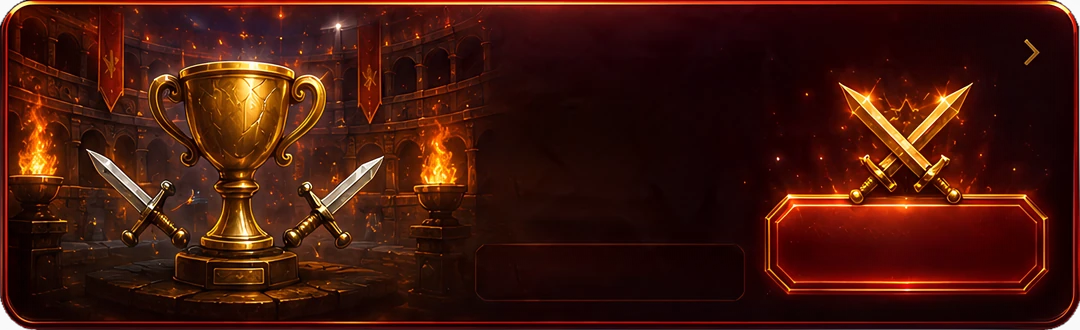
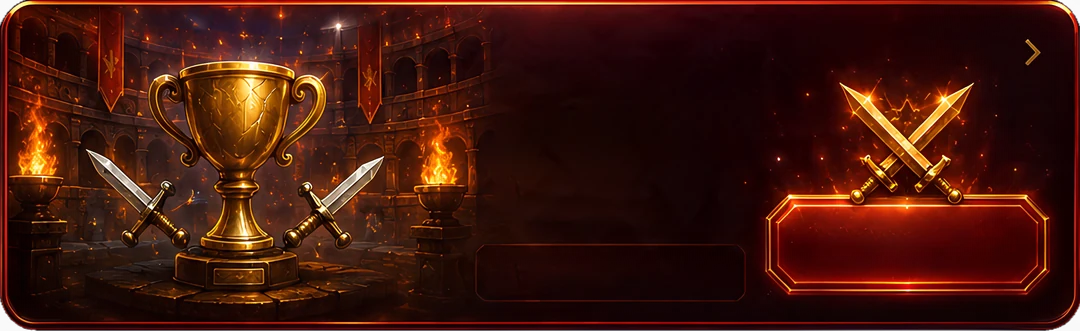
v2.105.1: nieuwe dagronde-secties, vinkje uit de art
De drie sectieplaten vervangen door de nieuwe art. Het vinkje zat er
ingebakken en is er nu uit, dus de ring rechtsboven wordt door de app
gevuld: een vinkje als je klaar bent, een speeldriehoek als je nog moet.
Daarmee vertelt dezelfde ring beide standen, in plaats van dat er een
donkere schijf overheen moest zolang je nog niet gespeeld had. Die schijf
is dan ook weg: hij zou nu de gouden ring uit de art overschilderen.

De art is horizontaal op de massieve lijst gesneden en niet op de gloed,
zodat de banner even breed staat als het paneel erboven. Daardoor komen de
verhoudingen op de tiende gelijk uit met de vorige art en konden alle
vakposities blijven staan.

De ring is opnieuw opgemeten op de rij door zijn eigen midden. Op een
andere rij is de koorde korter dan de diameter, en dat zette het pictogram
te klein en te hoog.

diff --git a/frontend/src/components/DagSectie.tsx b/frontend/src/components/DagSectie.tsx
@@ -53,27 +53,34 @@ type Plaat = {
   pil: Vak;
   /** het vak rechts, waar de stand in komt */
   plaat: Vak;
-  /** de ring met het vinkje; ontbreekt bij de arena, die heeft zwaarden */
+  /** De lege ring rechtsboven; ontbreekt bij de arena, die heeft zwaarden.
+   *  x en y zijn het MIDDELPUNT van de ring in de art, d is de buitendiameter
+   *  als deel van de plaatbreedte. Opgemeten op de rij door het midden van de
+   *  ring: op een andere rij is de koorde korter dan de diameter en zet je hem
+   *  te klein en te hoog. */
   ring?: { x: number; y: number; d: number };
 };
 
 export const DAG_PLATEN: Record<"woorden" | "topo" | "arena", Plaat> = {
+  // De nieuwe art heeft exact dezelfde verhoudingen als de vorige, dus de
+  // vakken hieronder zijn ongewijzigd. Alleen de ring is opnieuw opgemeten,
+  // want daar zat het vinkje in gebakken en dat is er nu uit.
   woorden: {
-    art: "/ui/dag/woorden.webp?v=2", v: 1080 / 310, kleur: "#FFC23D",
+    art: "/ui/dag/woorden.webp?v=3", v: 1080 / 310, kleur: "#FFC23D",
     tekst: { l: 0.440, r: 0.760, t: 0.10, b: 0.62 },
     pil: { l: 0.441, r: 0.730, t: 0.671, b: 0.871 },
     plaat: { l: 0.768, r: 0.945, t: 0.38, b: 0.90 },
-    ring: { x: 0.855, y: 0.31, d: 0.115 },
+    ring: { x: 0.8569, y: 0.3306, d: 0.0917 },
   },
   topo: {
-    art: "/ui/dag/topo.webp?v=2", v: 1080 / 302, kleur: "#5AC8FF",
+    art: "/ui/dag/topo.webp?v=3", v: 1080 / 302, kleur: "#5AC8FF",
     tekst: { l: 0.440, r: 0.760, t: 0.10, b: 0.72 },
     pil: { l: 0.440, r: 0.730, t: 0.752, b: 0.934 },
     plaat: { l: 0.768, r: 0.945, t: 0.40, b: 0.90 },
-    ring: { x: 0.855, y: 0.30, d: 0.105 },
+    ring: { x: 0.8569, y: 0.3262, d: 0.0917 },
   },
   arena: {
-    art: "/ui/dag/arena.webp?v=2", v: 1080 / 330, kleur: "#FF6A55",
+    art: "/ui/dag/arena.webp?v=3", v: 1080 / 331, kleur: "#FF6A55",
     tekst: { l: 0.440, r: 0.700, t: 0.10, b: 0.70 },
     pil: { l: 0.440, r: 0.689, t: 0.736, b: 0.907 },
     plaat: { l: 0.705, r: 0.965, t: 0.575, b: 0.905 },
@@ -238,23 +245,30 @@ export function DagSectie({
         )}
       </span>
 
-      {/* De ring met het vinkje staat IN de art en klopt dus alleen als je klaar
-          bent. Zo niet, dan gaat er een donkere schijf met een speeldriehoek
-          overheen en leest dezelfde plaat als een uitnodiging. */}
-      {P.ring && !klaar && (
+      {/* De ring in de art is LEEG, dus hier komt alleen wat erin hoort: een
+          vinkje als je klaar bent, een speeldriehoek als je nog moet. Geen
+          eigen schijf en geen eigen randje meer: die waren er om het
+          ingebakken vinkje af te dekken, en zouden nu de gouden ring uit de
+          art onnodig overschilderen. */}
+      {P.ring && (
         <span
           style={{
             position: "absolute",
             left: pct(P.ring.x - P.ring.d / 2), width: pct(P.ring.d),
             top: pct(P.ring.y - (P.ring.d * P.v) / 2), height: pct(P.ring.d * P.v),
-            borderRadius: "50%", display: "grid", placeItems: "center",
-            background: "radial-gradient(circle, rgba(10,5,20,.94) 60%, rgba(10,5,20,.78) 100%)",
-            boxShadow: `inset 0 0 0 ${Math.max(1, b * 0.004)}px ${withAlpha(P.kleur, 0.75)}`,
+            display: "grid", placeItems: "center", pointerEvents: "none",
           }}
         >
-          <svg width={b * 0.038} height={b * 0.038} viewBox="0 0 24 24" fill={P.kleur} aria-hidden style={{ marginLeft: b * 0.004 }}>
-            <path d="M7 4.5l12 7.5-12 7.5z" />
-          </svg>
+          {klaar ? (
+            <svg width={b * 0.058} height={b * 0.058} viewBox="0 0 24 24" fill="none" stroke={P.kleur}
+                 strokeWidth="3.2" strokeLinecap="round" strokeLinejoin="round" aria-hidden>
+              <path d="M4.5 12.5l5 5 10-11" />
+            </svg>
+          ) : (
+            <svg width={b * 0.050} height={b * 0.050} viewBox="0 0 24 24" fill={P.kleur} aria-hidden style={{ marginLeft: b * 0.005 }}>
+              <path d="M7 4.5l12 7.5-12 7.5z" />
+            </svg>
+          )}
         </span>
       )}
     </button>
